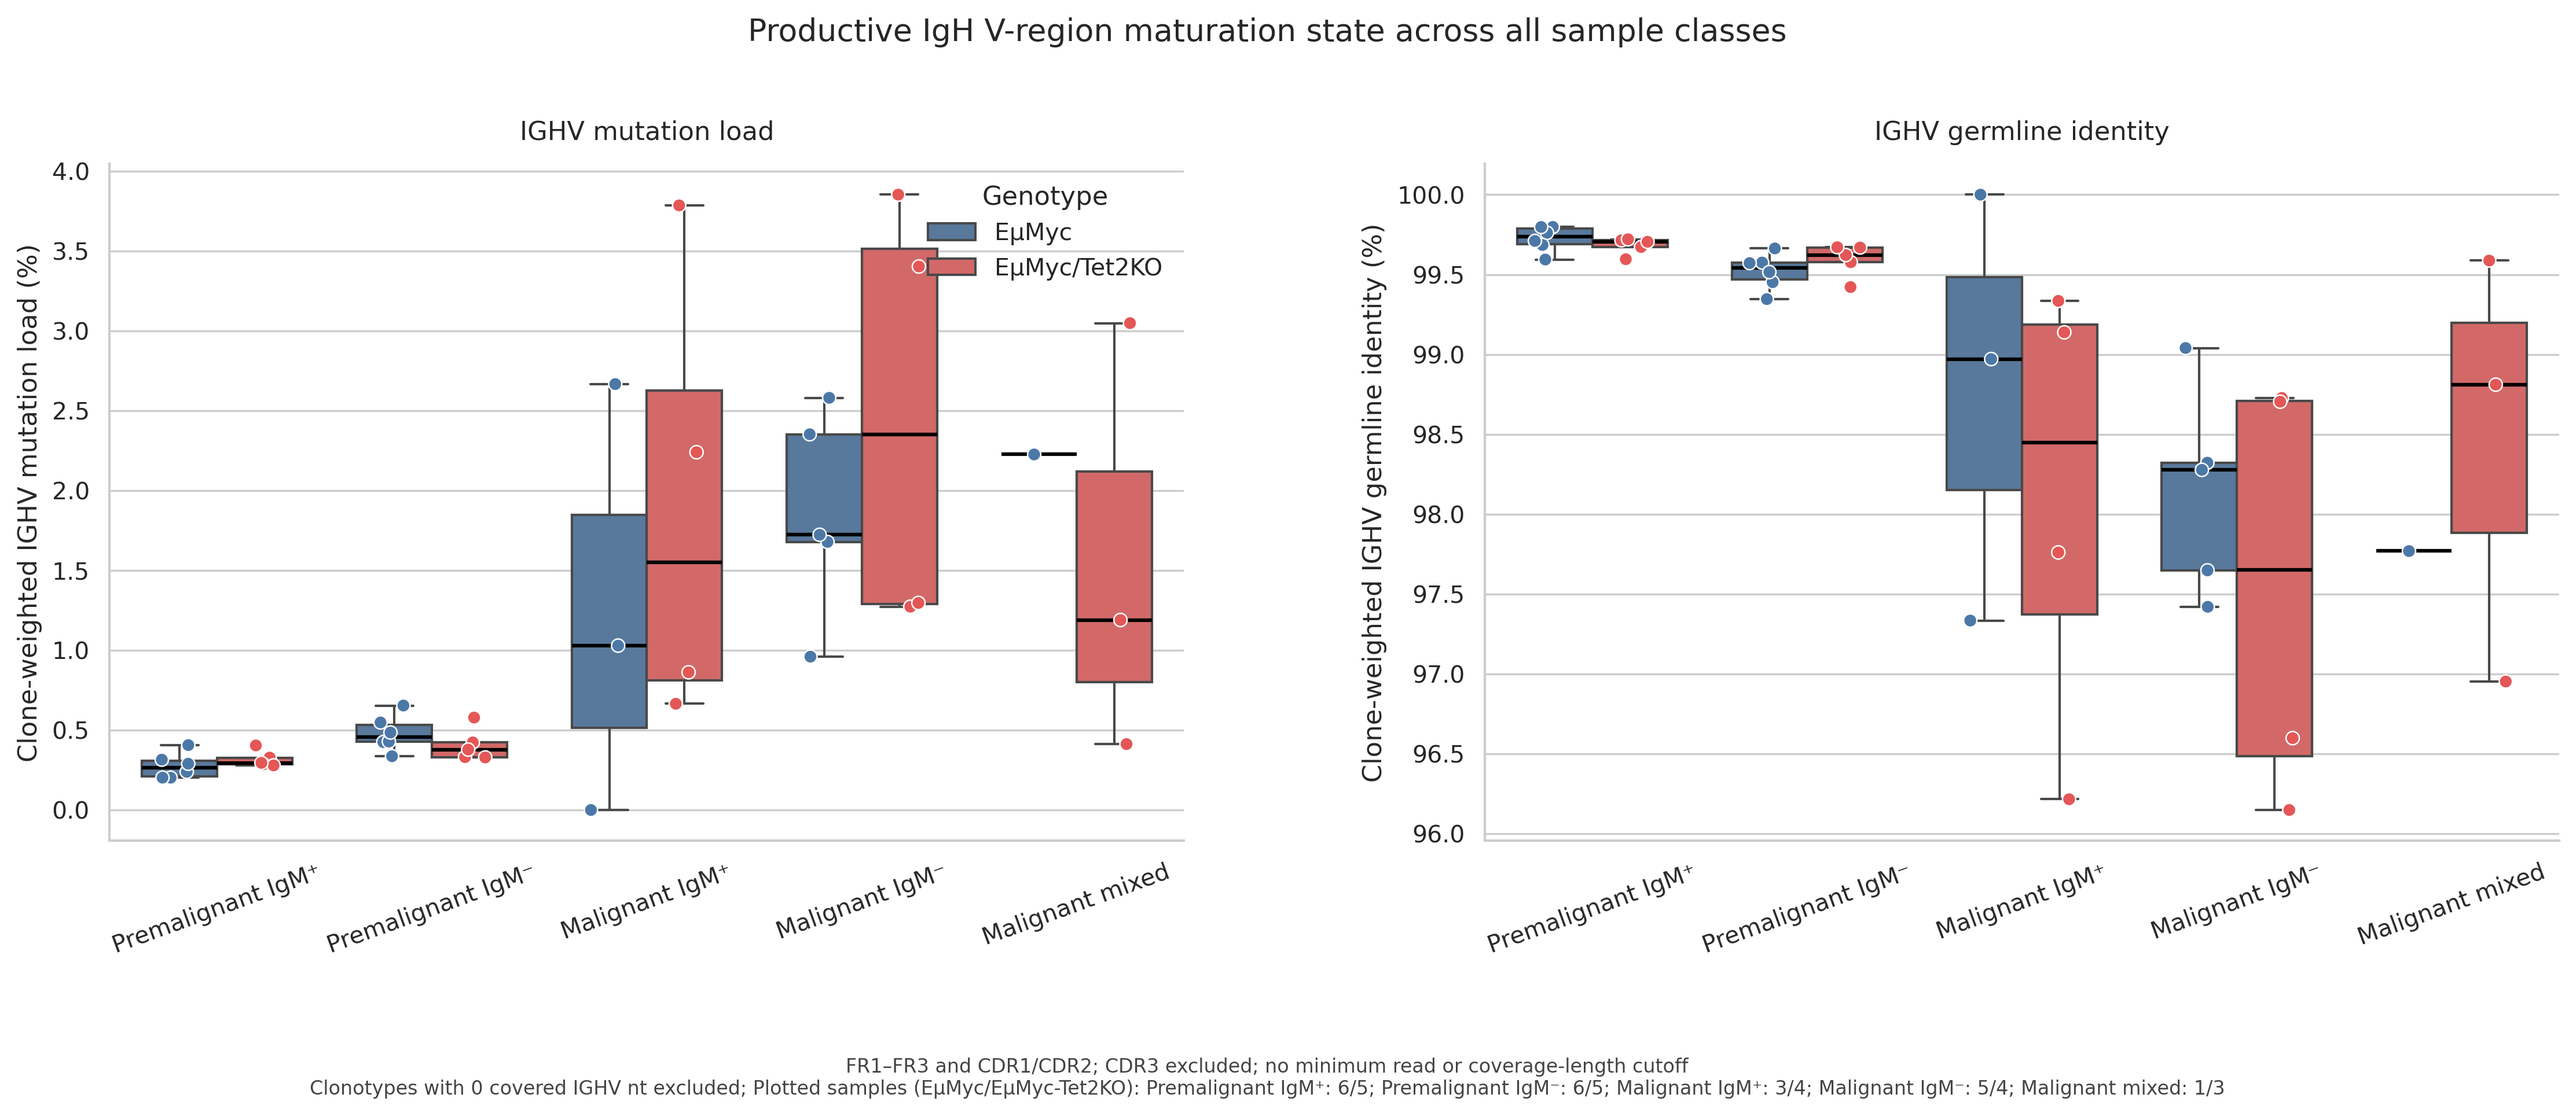
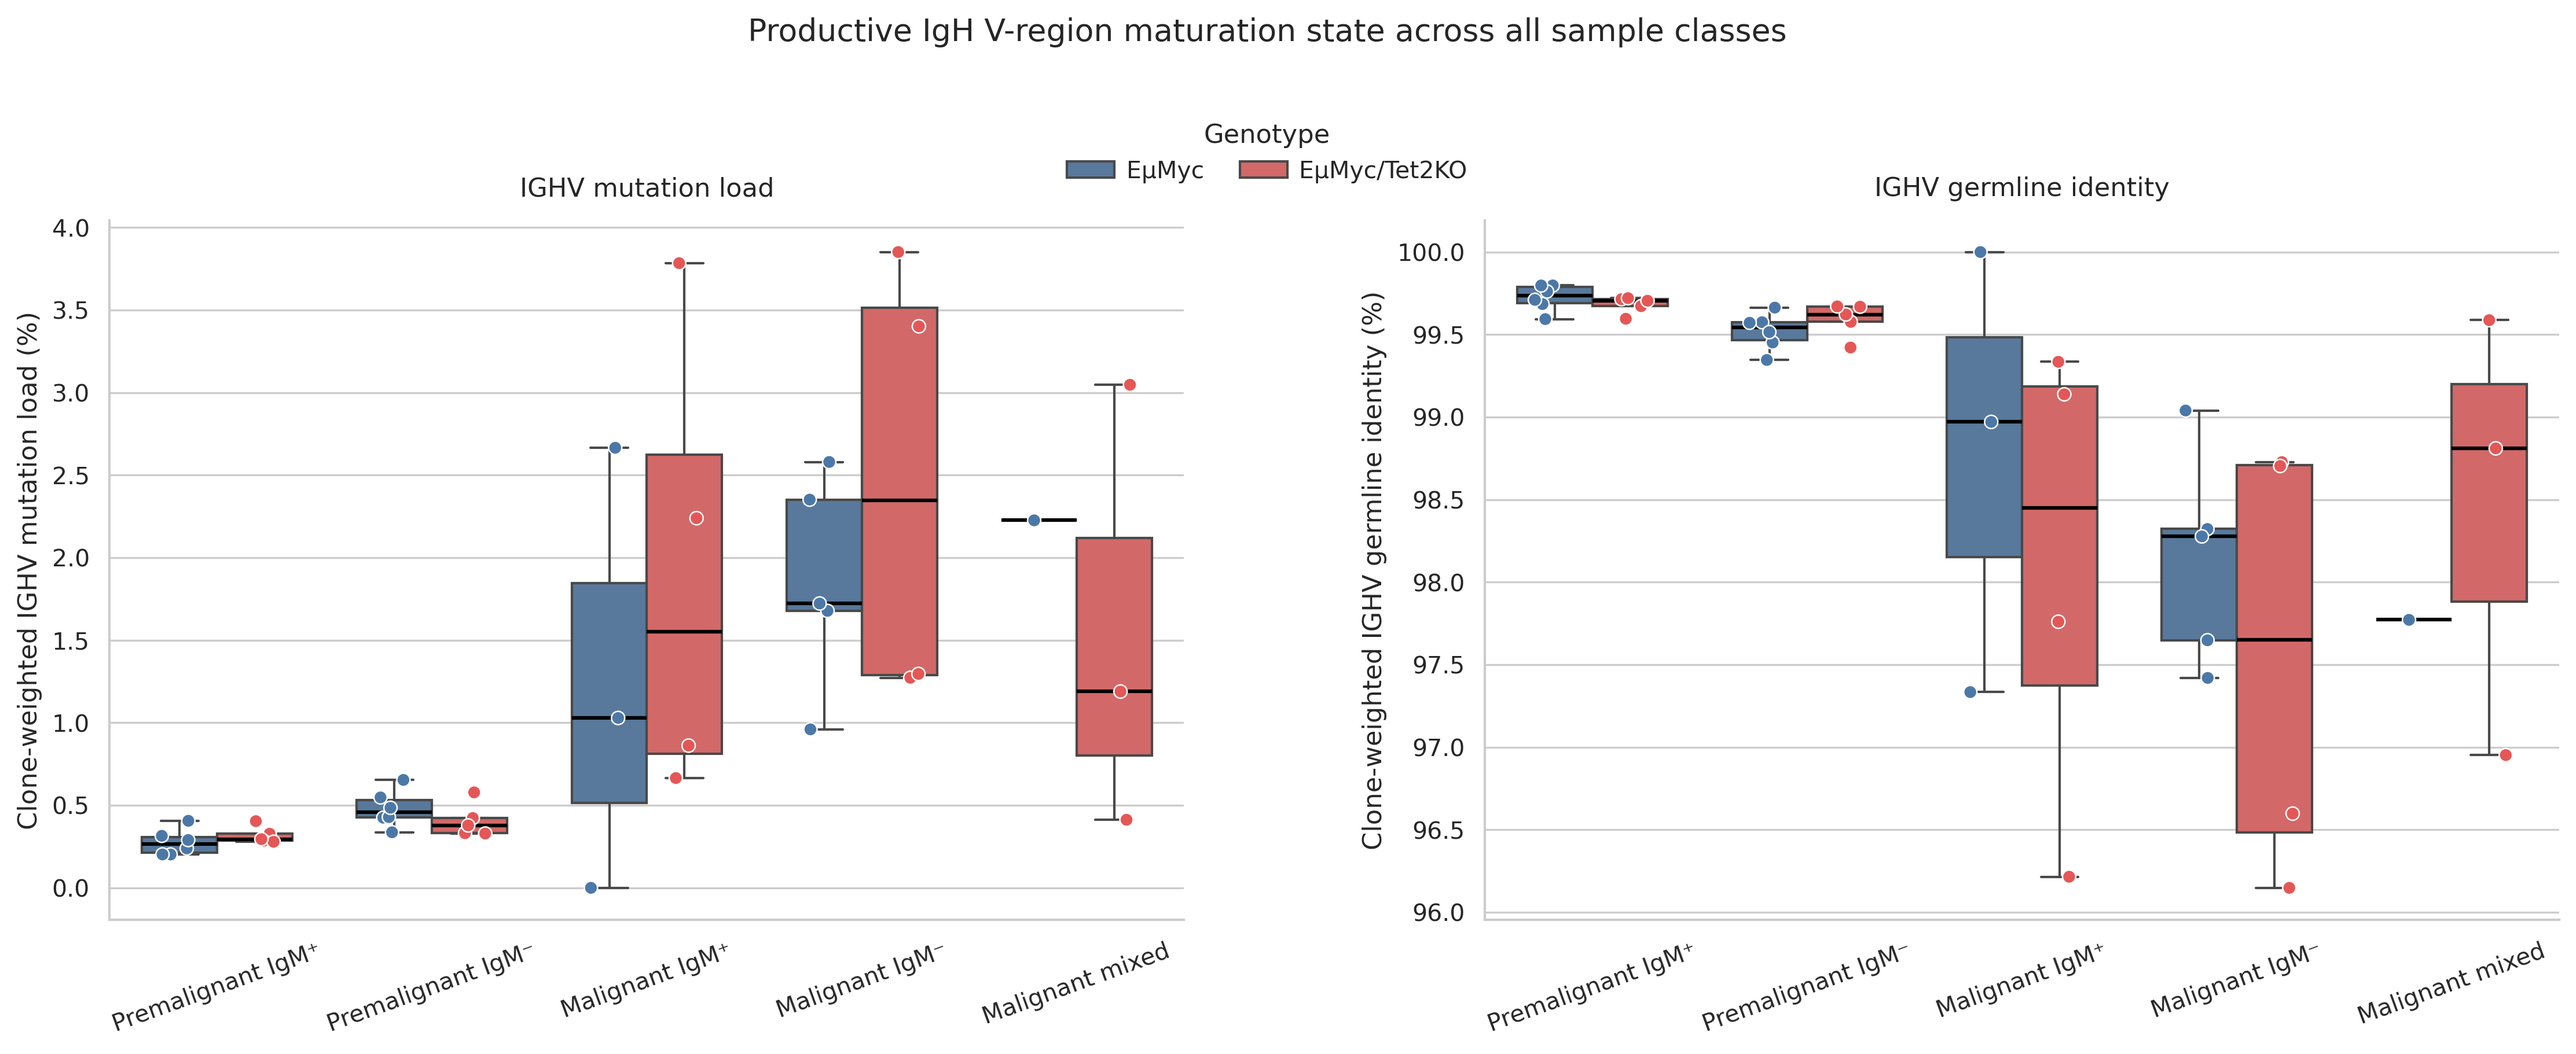
Update mutation load graph

diff --git a/beatit_paper/plot_productive_ighv_mutational_load_all_groups.py b/beatit_paper/plot_productive_ighv_mutational_load_all_groups.py
@@ -87,28 +87,17 @@ def make_plot(data):
         ax.set_ylabel(f"Clone-weighted {title} (%)")
         ax.tick_params(axis="x", rotation=20)
         ax.spines[["top", "right"]].set_visible(False)
-        if panel_no == 0:
-            ax.legend(title="Genotype", frameon=False, loc="upper right")
-        else:
-            ax.get_legend().remove()
+        ax.get_legend().remove()
 
-    counts = (
-        data.dropna(subset=["clone_weighted_mean_mutation_load_percent"])
-        .groupby(["sample_class", "genotype"], observed=True).size()
+    handles, labels = axes[0].get_legend_handles_labels()
+    fig.legend(
+        handles[:2], labels[:2], title="Genotype", loc="upper center",
+        bbox_to_anchor=(0.5, 0.905), ncol=2, frameon=False,
+        columnspacing=1.5, handletextpad=0.5,
     )
-    count_text = "; ".join(
-        f"{group}: {counts.get((group, 'EµMyc'), 0)}/{counts.get((group, 'EµMyc/Tet2KO'), 0)}"
-        for group in CLASS_ORDER
-    )
+
     fig.suptitle("Productive IgH V-region maturation state across all sample classes", y=0.98)
-    fig.text(
-        0.5, 0.025,
-        "FR1–FR3 and CDR1/CDR2; CDR3 excluded; no minimum read or coverage-length cutoff\n"
-        "Clonotypes with 0 covered IGHV nt excluded; "
-        "Plotted samples (EµMyc/EµMyc-Tet2KO): " + count_text,
-        ha="center", fontsize=8, color="#444444",
-    )
-    fig.subplots_adjust(bottom=0.25, top=0.85, left=0.07, right=0.98, wspace=0.28)
+    fig.subplots_adjust(bottom=0.18, top=0.80, left=0.07, right=0.98, wspace=0.28)
     return fig
 
 
